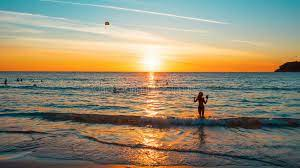
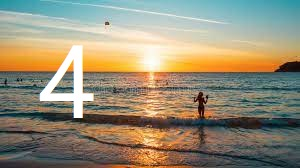
完成轮播图

Changed region(s): [[0.12, 0.2679, 0.33, 0.7143]]

diff --git a/practise/JavaScript/02_Web APIs/13_网页轮播图/js/index.js b/practise/JavaScript/02_Web APIs/13_网页轮播图/js/index.js
@@ -1,26 +1,134 @@
 window.addEventListener("load", function () {
+    var carousel = document.querySelector(".carousel");
+    var control = document.querySelector(".control");
     var btn_left = document.querySelector(".btn_left");
     var btn_right = document.querySelector(".btn_right");
+    var btn_bottom = document.querySelector(".btn_bottom");
     var images = document.querySelector(".images");
-    //给image中的li添加自定义属性
-    for (var i = 0; i < images.children.length; i++) {
-        images.children[i].setAttribute("index", i);
-    }
-    images.children[images.children.length - 1].setAttribute("index", 0);
-    var index = 0;
-    //切换图片函数, 参数为跳转到第几个图片
-    async function carMove(moveTo) {
 
-
-    }
+    var imgSum = images.children.length; //共有几张图片
+    console.log("去掉复制的共有" + imgSum + "张图");
+    // 复制第一个元素
+    images.appendChild(images.children[0].cloneNode(true));
+    var index = 0; //当前是第几张图片
+    var width = images.children[0].offsetWidth;
+    var distance = 0;
+    // 控制前进后退按钮的显示隐藏
+    carousel.addEventListener("mouseenter", function () {
+        //取消自动切换
+        clearInterval(autoSwitch);
+        // 显示控制按钮
+        control.style.visibility = "visible";
+    });
+    carousel.addEventListener("mouseleave", function () {
+        //设置定时器
+        var autoSwitch = setInterval(function () {
+            btn_right.click();
+        }, 5000);
+        //隐蔽控制按钮
+        control.style.visibility = "hidden";
+    });
+    var flag = true;
+    //前进后退按钮区域
     btn_right.addEventListener("click", function () {
-        carMove(++index);
+        if (flag) {
+            flag = false; //关闭节流阀
+            //前进
+            //如果是最后一张图片, 那么进行处理
+            if (index == imgSum) {
+                index = 0;
+                images.style.left = "0px";
+            }
+
+            index++;
+            distance = index * -width;
+            animate(images, distance, function () {
+                flag = true;
+            });
+
+            //设置小圆点的样式
+
+            for (var i = 0; i < btn_bottom.children.length; i++) {
+                btn_bottom.children[i].className = "";
+            }
+            if (index == imgSum) {
+                btn_bottom.children[0].className = "current";
+            } else {
+                btn_bottom.children[index].className = "current";
+            }
+            console.log(index);
+        }
     });
     btn_left.addEventListener("click", function () {
-        carMove(--index);
+        if (flag) {
+            flag = false; //关闭节流阀
+            //后退
+            //如果现在是第一张, 那么跳到最后一张
+            if (index == 0) {
+                index = imgSum;
+                images.style.left = imgSum * -width + "px";
+            }
+            index--;
+            distance = index * -width;
+            animate(images, distance, function () {
+                flag = true;
+            });
+
+            //设置小圆点的样式
+            for (var i = 0; i < btn_bottom.children.length; i++) {
+                btn_bottom.children[i].className = "";
+            }
+            if (index == imgSum) {
+                btn_bottom.children[0].className = "current";
+            } else {
+                btn_bottom.children[index].className = "current";
+            }
+
+            console.log(index);
+        }
     });
 
-    function newFunction() {
-        images.style.left = "0px";
+    //生成下方小圆点按钮
+    for (var i = 0; i < images.children.length - 1; i++) {
+        var bubb = document.createElement("li");
+        if (i == 0) {
+            //第一个设为默认
+            bubb.className = "current";
+        }
+        //添加属性
+        bubb.setAttribute("index", i);
+        //绑定事件
+        bubb.addEventListener("click", function () {
+            carMove(this.getAttribute("index"));
+            console.log("你点击了小圆圈按钮" + this.getAttribute("index"));
+        });
+        btn_bottom.appendChild(bubb);
     }
+
+    //控制图片移动函数, 参数为多少就移动到第几张图
+    function carMove(moveTo) {
+        v = moveTo * -width;
+
+        animate(images, v);
+        index = moveTo;
+        //更新小圆圈按钮的选中状态
+        for (var i = 0; i < btn_bottom.children.length; i++) {
+            btn_bottom.children[i].className = "";
+        }
+        btn_bottom.children[index].className = "current";
+
+        console.log("index=" + index);
+    }
+    //自动切换图片
+    var autoSwitch = setInterval(function () {
+        btn_right.click();
+    }, 5000);
+    //可以用左右方向键控制切换
+    document.addEventListener("keydown", function (e) {
+        if (e.key == "ArrowLeft") {
+            btn_left.click();
+        } else if (e.key == "ArrowRight") {
+            btn_right.click();
+        }
+    });
 });

diff --git a/practise/JavaScript/02_Web APIs/13_网页轮播图/js/index copy.js b/practise/JavaScript/02_Web APIs/13_网页轮播图/js/index copy.js
@@ -1,0 +1,94 @@
+window.addEventListener("load", function () {
+    var carousel = document.querySelector(".carousel");
+    var control = document.querySelector(".control");
+    var btn_left = document.querySelector(".btn_left");
+    var btn_right = document.querySelector(".btn_right");
+    var btn_bottom = document.querySelector(".btn_bottom");
+    var images = document.querySelector(".images");
+
+    // 复制第一个元素
+    images.appendChild(images.children[0].cloneNode(true));
+    var index = 0; //当前是第几张图片
+    var width = images.children[0].offsetWidth;
+    var imgSum = images.children.length; //共有几张图片
+    //控制图片前进后退的函数, 参数为正负数, 正数前进一张, 负数后退一张
+    function carMoveStep(tag) {
+        //假如原地移动, 那什么都不做
+        v = (index + tag) * -width;
+        tag > 0 ? index++ : index--;
+        console.log(v);
+        if (index == imgSum) {
+            //最后一张图片点击就会跳到第一张图片并且前进一张
+            images.style.left = "0px";
+            animate(images, -width);
+            index = 1;
+        } else if (index < 0) {
+            //第一张图片点击就会跳到最后一张图片并后退一张
+            images.style.left = (imgSum - 1) * -width + "px";
+            animate(images, (imgSum - 2) * -width);
+            index = imgSum-1;
+        } else {
+            animate(images, v);
+        }
+
+        //更新小圆圈按钮的选中状态
+        //先取消所有的current
+        for (var i = 0; i < btn_bottom.children.length; i++) {
+            btn_bottom.children[i].className = "";
+        }
+        //如果是实际上的最后一张, 第一个圆点设为为current
+        if (index == imgSum-1) {
+            btn_bottom.children[0].className = "current";
+        } else {
+            btn_bottom.children[index].className = "current";
+        }
+
+        console.log("index=" + index);
+    }
+    //控制图片移动函数, 参数为多少就移动到第几张图
+    function carMove(moveTo) {
+        v = moveTo * -width;
+
+        animate(images, v);
+        index = moveTo;
+        //更新小圆圈按钮的选中状态
+        for (var i = 0; i < btn_bottom.children.length; i++) {
+            btn_bottom.children[i].className = "";
+        }
+        btn_bottom.children[index].className = "current";
+
+        console.log("index=" + index);
+    }
+    // 控制前进后退按钮的显示隐藏
+    carousel.addEventListener("mouseenter", function () {
+        control.style.visibility = "visible";
+    });
+    carousel.addEventListener("mouseleave", function () {
+        control.style.visibility = "hidden";
+    });
+
+    //前进后退按钮区域
+    btn_right.addEventListener("click", function () {
+        carMoveStep(1);
+    });
+    btn_left.addEventListener("click", function () {
+        carMoveStep(-1);
+    });
+
+    //生成下方小圆点按钮
+    for (var i = 0; i < images.children.length - 1; i++) {
+        var bubb = document.createElement("li");
+        if (i == 0) {
+            //第一个设为默认
+            bubb.className = "current";
+        }
+        //添加属性
+        bubb.setAttribute("index", i);
+        //绑定事件
+        bubb.addEventListener("click", function () {
+            carMove(this.getAttribute("index"));
+            console.log("你点击了小圆圈按钮" + this.getAttribute("index"));
+        });
+        btn_bottom.appendChild(bubb);
+    }
+});

diff --git a/practise/JavaScript/02_Web APIs/13_网页轮播图/index.html b/practise/JavaScript/02_Web APIs/13_网页轮播图/index.html
@@ -15,9 +15,7 @@
             <a href="javascript:;" class="btn btn_left"><</a>
             <a href="javascript:;" class="btn btn_right">></a>
             <ol class="btn_bottom">
-                <li class="current"></li>
-                <li></li>
-                <li></li>
+
             </ol>
         </div>
         <ul class="images">
@@ -25,7 +23,8 @@
             <li><img src="./images/2.jpg" alt=""></li>
             <li><img src="./images/3.jpg" alt=""></li>
             <li><img src="./images/4.jpg" alt=""></li>
-            <li><img src="./images/1.jpg" alt=""></li>
+            <!-- <li><img src="./images/5.jpg" alt=""></li> -->
+
         </ul>
     </div>
 </body>

diff --git a/practise/JavaScript/02_Web APIs/13_网页轮播图/js/animate.js b/practise/JavaScript/02_Web APIs/13_网页轮播图/js/animate.js
@@ -4,11 +4,9 @@
  * @param {HTMLElement} target
  */
 
-function animate(obj, target) {
-    target = obj.offsetLeft + target;
+function animate(obj, target, callback) {
     clearInterval(obj.timer);
     obj.timer = setInterval(move, 15);
-
     function move() {
         var box_x = obj.offsetLeft; //获取现在的位置
         var step = (target - box_x) / 10; //计算步长
@@ -17,6 +15,8 @@ function animate(obj, target) {
         //到达位置取消定时器
         if (box_x == target) {
             clearInterval(obj.timer);
+            callback()
         }
     }
+
 }

diff --git a/practise/JavaScript/02_Web APIs/13_网页轮播图/less/index.less b/practise/JavaScript/02_Web APIs/13_网页轮播图/less/index.less
@@ -6,11 +6,14 @@
 
 .carousel {
     position: relative;
-    margin: 100px 100px;
+    margin: 100px auto;
     width: 600px;
     height: 337px;
+    overflow: hidden;
     .control {
-        z-index: 10;
+        visibility: hidden;
+        // visibility: visible;
+        z-index: 999;
         position: absolute;
         width: 100%;
         height: 100%;

diff --git a/practise/JavaScript/02_Web APIs/13_网页轮播图/css/index.css b/practise/JavaScript/02_Web APIs/13_网页轮播图/css/index.css
@@ -5,12 +5,14 @@
 }
 .carousel {
   position: relative;
-  margin: 100px 100px;
+  margin: 100px auto;
   width: 600px;
   height: 337px;
+  overflow: hidden;
 }
 .carousel .control {
-  z-index: 10;
+  visibility: hidden;
+  z-index: 999;
   position: absolute;
   width: 100%;
   height: 100%;
